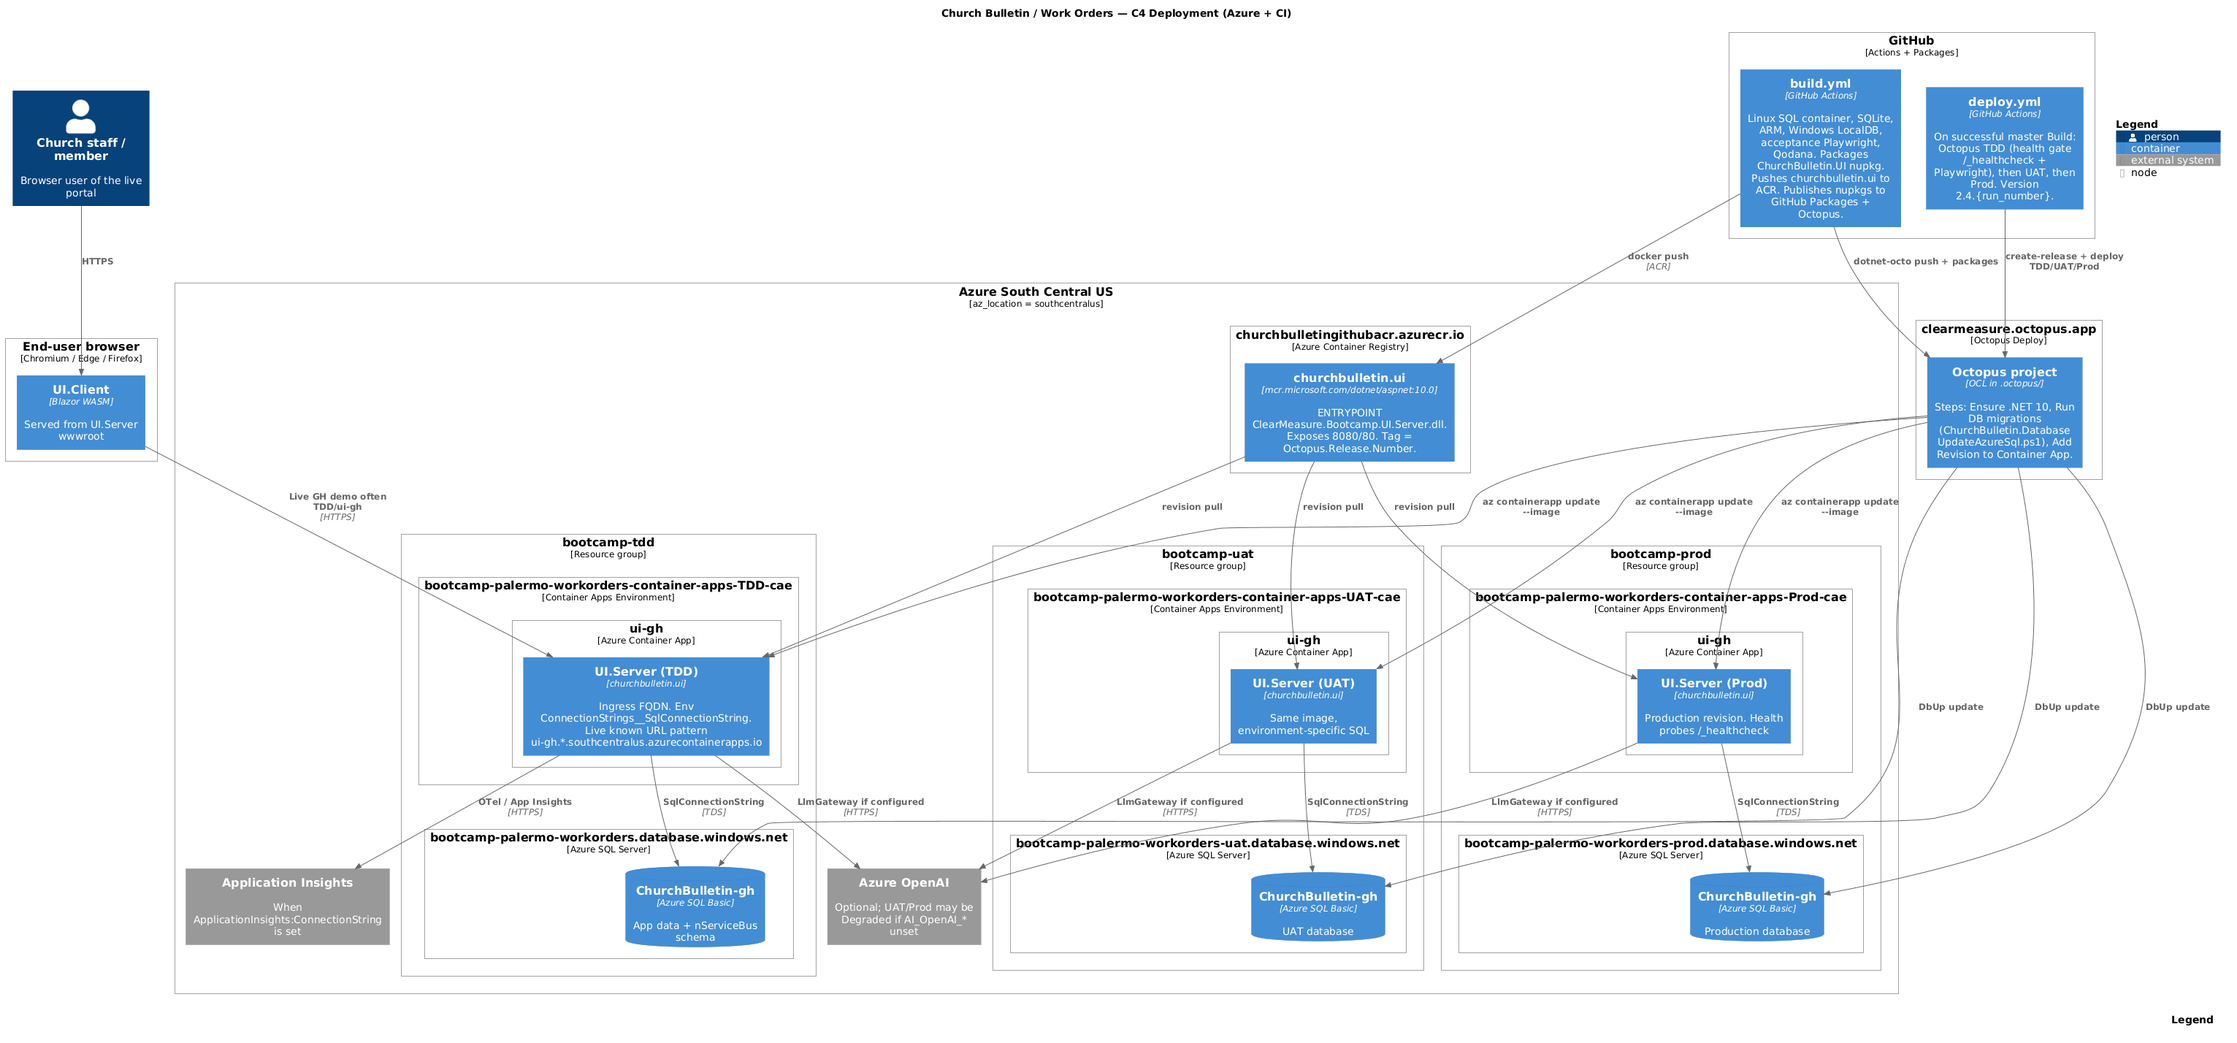
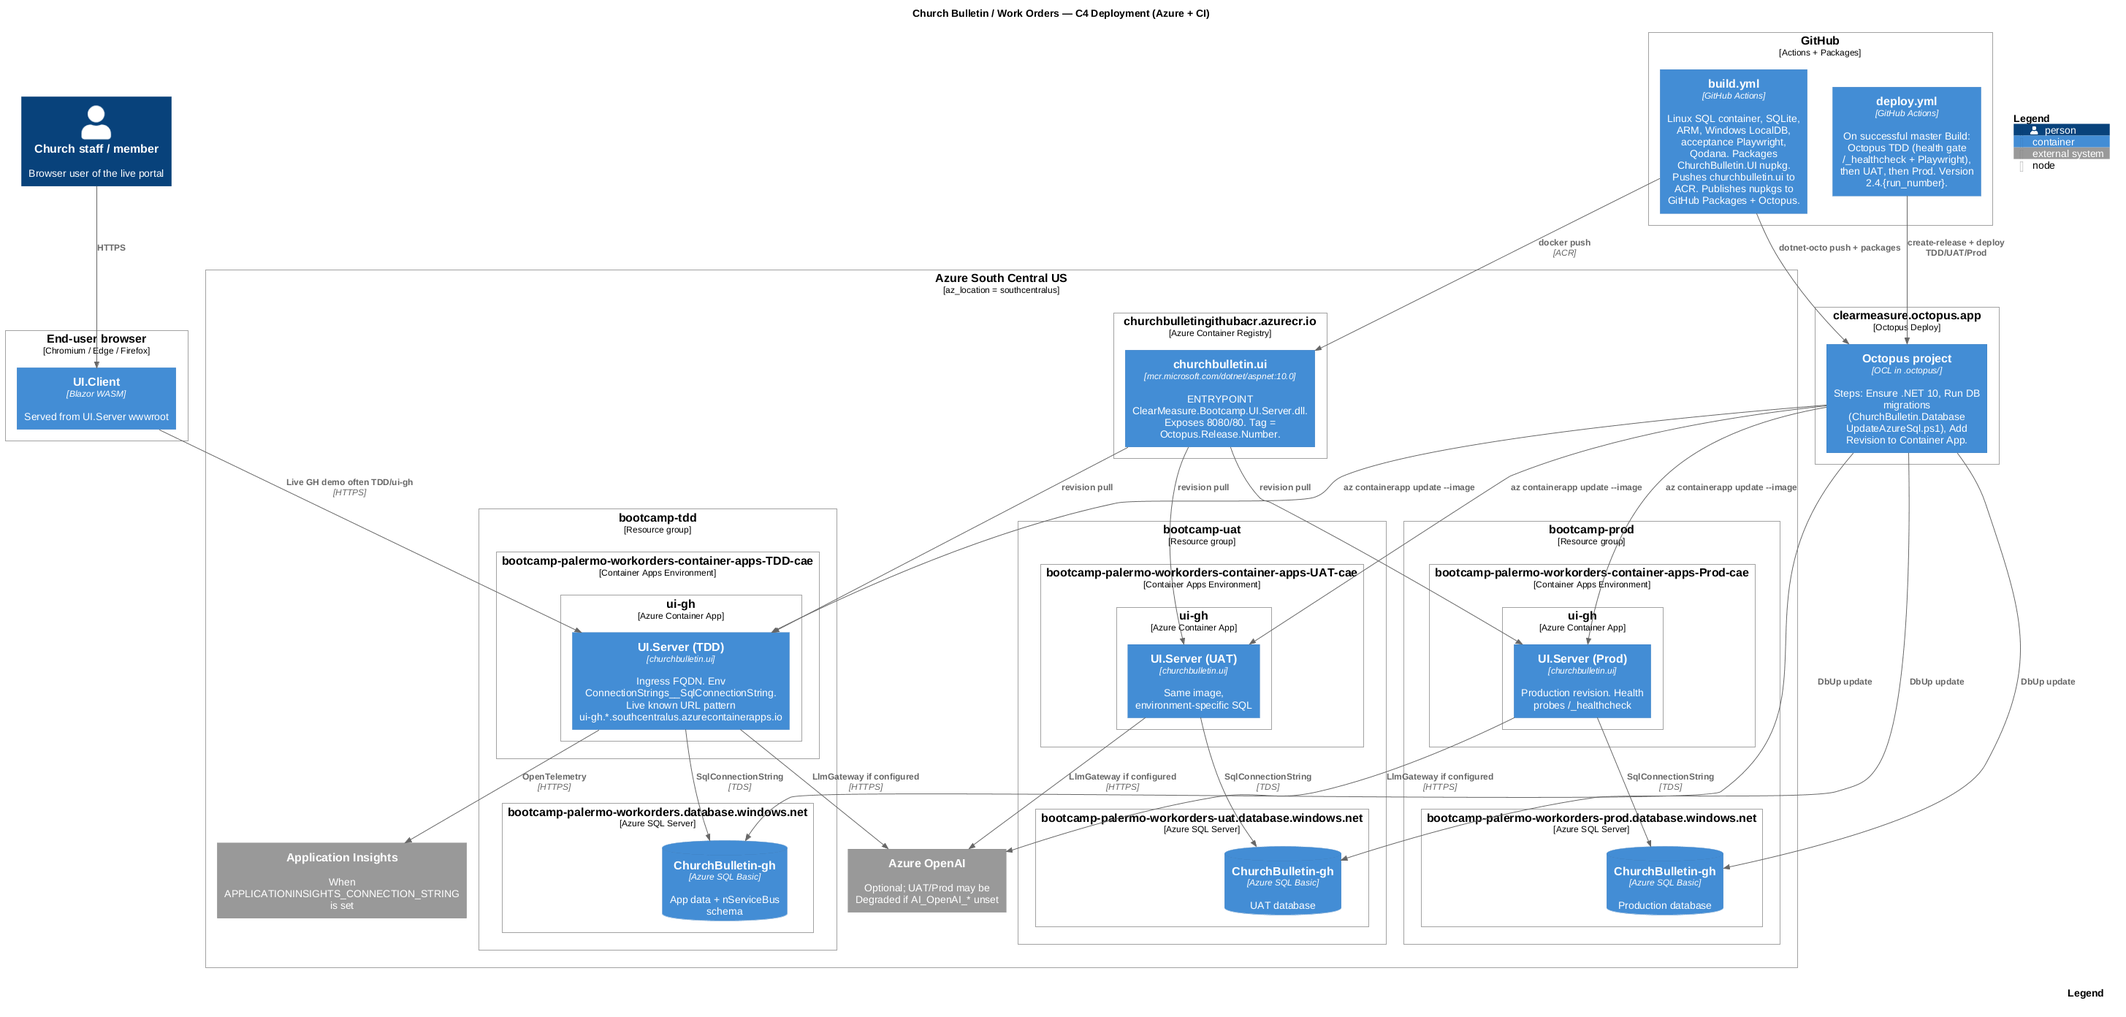
Telemetry to Application Insights through the Azure Monitor OpenTelemetry exporter; remove Application Insights leftovers (#12)
- ServiceDefaults: Azure.Monitor.OpenTelemetry.AspNetCore 1.6.0; UseAzureMonitor() when APPLICATIONINSIGHTS_CONNECTION_STRING is non-empty (traces, metrics, logs), UseOtlpExporter() when OTEL_EXPORTER_OTLP_ENDPOINT is set; both may run. OTEL_SERVICE_NAME / OTEL_RESOURCE_ATTRIBUTES are applied after the Azure resource detectors so the platform's service name wins.
- Dead Application Insights settings and instrumentation keys removed from launch settings, Worker and AppHost appsettings.Development.json and the AppHost; dummy zero-key variables removed from the ai-factory serve script and the 8338 video README.
- video/package.json, video/package-lock.json and video/src/Root.tsx restored to their state before 09d6b96 (an accidental edit importing a missing ./middleNameVideo).
- Docs and agent rules describe the Azure (Application Insights) and local (Aspire dashboard) telemetry paths; runtime-c4 re-rendered.
- Tests: exporter wiring by configuration; service name kept on App Service and Container Apps.

diff --git a/video/src/Root.tsx b/video/src/Root.tsx
@@ -3,7 +3,6 @@ import {Composition} from 'remotion';
 import {QodanaRemediationVideo, TOTAL_FRAMES} from './Video';
 import {RoomNumber900Video, ROOM_TOTAL_FRAMES} from './roomNumberVideo';
 import {InstructionsFieldVideo, INSTRUCTIONS_TOTAL_FRAMES} from './instructionsFieldVideo';
-import {MiddleNameVideo, MIDDLE_NAME_TOTAL_FRAMES, MIDDLE_NAME_DEFAULTS} from './middleNameVideo';
 import {FPS} from './theme';
 
 export const RemotionRoot: React.FC = () => (
@@ -31,15 +30,6 @@ export const RemotionRoot: React.FC = () => (
       fps={FPS}
       width={1920}
       height={1080}
-    />
-    <Composition
-      id="EmployeeMiddleName"
-      component={MiddleNameVideo}
-      durationInFrames={MIDDLE_NAME_TOTAL_FRAMES}
-      fps={FPS}
-      width={1920}
-      height={1080}
-      defaultProps={MIDDLE_NAME_DEFAULTS}
     />
   </>
 );

diff --git a/src/UnitTests/ServiceDefaults/OpenTelemetryResourceTests.cs b/src/UnitTests/ServiceDefaults/OpenTelemetryResourceTests.cs
@@ -1,3 +1,4 @@
+using Azure.Monitor.OpenTelemetry.AspNetCore;
 using ChurchBulletin.ServiceDefaults;
 using Microsoft.Extensions.DependencyInjection;
 using Microsoft.Extensions.Hosting;
@@ -10,6 +11,10 @@ namespace ClearMeasure.Bootcamp.UnitTests.ServiceDefaults;
 [TestFixture]
 public class OpenTelemetryResourceTests
 {
+    // Points ingestion and Live Metrics at a closed local port so no telemetry leaves the machine.
+    private static readonly string OfflineConnectionString =
+        $"InstrumentationKey={Guid.Empty};IngestionEndpoint=http://127.0.0.1:9/;LiveEndpoint=http://127.0.0.1:9/";
+
     [Test]
     public void AddServiceDefaults_WhenOtelServiceNameConfigured_ShouldUseItAsServiceName()
     {
@@ -37,6 +42,59 @@ public class OpenTelemetryResourceTests
         attributes.ShouldContain(a => a.Key == "deployment.environment" && (string)a.Value == "tdd");
     }
 
+    [TestCase("WEBSITE_SITE_NAME", "app-test-tdd-ui")]
+    [TestCase("CONTAINER_APP_NAME", "ca-test-tdd-ui")]
+    public void AddServiceDefaults_WhenAzureMonitorRunsOnAzurePlatform_ShouldKeepOtelServiceName(
+        string platformVariable, string platformAppName)
+    {
+        using var platform = EnvironmentVariableScope.Set(
+            (platformVariable, platformAppName),
+            ("CONTAINER_APP_REPLICA_NAME", "replica-1"),
+            ("APPLICATIONINSIGHTS_STATSBEAT_DISABLED", "true"),
+            ("APPLICATIONINSIGHTS_SDKSTATS_DISABLED", "true"));
+        var builder = Host.CreateApplicationBuilder();
+        builder.Configuration["APPLICATIONINSIGHTS_CONNECTION_STRING"] = OfflineConnectionString;
+        builder.Configuration["OTEL_SERVICE_NAME"] = "test-ui";
+        builder.AddServiceDefaults();
+        builder.Services.Configure<AzureMonitorOptions>(options =>
+        {
+            options.EnableLiveMetrics = false;
+            options.DisableOfflineStorage = true;
+        });
+        using var host = builder.Build();
+
+        var attributes = host.Services.GetRequiredService<TracerProvider>().GetResource().Attributes.ToList();
+
+        attributes.ShouldContain(a => a.Key == "cloud.provider" && (string)a.Value == "azure");
+        ServiceNameOf(attributes).ShouldBe("test-ui");
+    }
+
     private static string? ServiceNameOf(IEnumerable<KeyValuePair<string, object>> attributes) =>
         attributes.Single(a => a.Key == "service.name").Value as string;
+
+    private sealed class EnvironmentVariableScope : IDisposable
+    {
+        private readonly Dictionary<string, string?> _previous;
+
+        private EnvironmentVariableScope(Dictionary<string, string?> previous) => _previous = previous;
+
+        public static EnvironmentVariableScope Set(params (string Name, string Value)[] variables)
+        {
+            var previous = variables.ToDictionary(v => v.Name, v => Environment.GetEnvironmentVariable(v.Name));
+            foreach (var (name, value) in variables)
+            {
+                Environment.SetEnvironmentVariable(name, value);
+            }
+
+            return new EnvironmentVariableScope(previous);
+        }
+
+        public void Dispose()
+        {
+            foreach (var (name, value) in _previous)
+            {
+                Environment.SetEnvironmentVariable(name, value);
+            }
+        }
+    }
 }

diff --git a/src/UnitTests/ServiceDefaults/TelemetryExporterTests.cs b/src/UnitTests/ServiceDefaults/TelemetryExporterTests.cs
@@ -1,0 +1,73 @@
+using Azure.Monitor.OpenTelemetry.AspNetCore;
+using ChurchBulletin.ServiceDefaults;
+using Microsoft.Extensions.DependencyInjection;
+using Microsoft.Extensions.Hosting;
+using Microsoft.Extensions.Options;
+using Shouldly;
+
+namespace ClearMeasure.Bootcamp.UnitTests.ServiceDefaults;
+
+[TestFixture]
+public class TelemetryExporterTests
+{
+    private static readonly string TestConnectionString = $"InstrumentationKey={Guid.Empty}";
+
+    [Test]
+    public void AddServiceDefaults_WhenApplicationInsightsConnectionStringSet_ShouldWireAzureMonitorExporter()
+    {
+        var builder = Host.CreateApplicationBuilder();
+        builder.Configuration["APPLICATIONINSIGHTS_CONNECTION_STRING"] = TestConnectionString;
+        builder.Configuration["OTEL_EXPORTER_OTLP_ENDPOINT"] = null;
+
+        builder.AddServiceDefaults();
+
+        UsesAzureMonitor(builder.Services).ShouldBeTrue();
+        UsesOtlpExporter(builder.Services).ShouldBeFalse();
+    }
+
+    [TestCase(null)]
+    [TestCase("")]
+    [TestCase("  ")]
+    public void AddServiceDefaults_WhenApplicationInsightsConnectionStringMissing_ShouldNotWireAzureMonitorExporter(
+        string? connectionString)
+    {
+        var builder = Host.CreateApplicationBuilder();
+        builder.Configuration["APPLICATIONINSIGHTS_CONNECTION_STRING"] = connectionString;
+
+        builder.AddServiceDefaults();
+
+        UsesAzureMonitor(builder.Services).ShouldBeFalse();
+    }
+
+    [Test]
+    public void AddServiceDefaults_WhenOnlyLegacyApplicationInsightsSettingSet_ShouldNotWireAzureMonitorExporter()
+    {
+        var builder = Host.CreateApplicationBuilder();
+        builder.Configuration["APPLICATIONINSIGHTS_CONNECTION_STRING"] = null;
+        builder.Configuration["ApplicationInsights:ConnectionString"] = TestConnectionString;
+
+        builder.AddServiceDefaults();
+
+        UsesAzureMonitor(builder.Services).ShouldBeFalse();
+    }
+
+    [Test]
+    public void AddServiceDefaults_WhenOtlpEndpointAndConnectionStringSet_ShouldWireBothExporters()
+    {
+        var builder = Host.CreateApplicationBuilder();
+        builder.Configuration["OTEL_EXPORTER_OTLP_ENDPOINT"] = "http://localhost:4317";
+        builder.Configuration["APPLICATIONINSIGHTS_CONNECTION_STRING"] = TestConnectionString;
+
+        builder.AddServiceDefaults();
+
+        UsesAzureMonitor(builder.Services).ShouldBeTrue();
+        UsesOtlpExporter(builder.Services).ShouldBeTrue();
+    }
+
+    private static bool UsesAzureMonitor(IServiceCollection services) =>
+        services.Any(d => d.ServiceType == typeof(IConfigureOptions<AzureMonitorOptions>));
+
+    private static bool UsesOtlpExporter(IServiceCollection services) =>
+        services.Any(d => d.ServiceType.Assembly.GetName().Name == "OpenTelemetry.Exporter.OpenTelemetryProtocol"
+            || d.ImplementationType?.Assembly.GetName().Name == "OpenTelemetry.Exporter.OpenTelemetryProtocol");
+}

diff --git a/src/ChurchBulletin.ServiceDefaults/Extensions.cs b/src/ChurchBulletin.ServiceDefaults/Extensions.cs
@@ -4,8 +4,10 @@ using Microsoft.Extensions.DependencyInjection;
 using Microsoft.Extensions.Diagnostics.HealthChecks;
 using Microsoft.Extensions.Hosting;
 using Microsoft.Extensions.Logging;
+using Azure.Monitor.OpenTelemetry.AspNetCore;
 using OpenTelemetry;
 using OpenTelemetry.Metrics;
+using OpenTelemetry.Resources;
 using OpenTelemetry.Trace;
 using Serilog;
 
@@ -95,9 +97,11 @@ public static class Extensions
     }
 
     /// <summary>
-    /// Adds the OTLP exporter when the OTEL_EXPORTER_OTLP_ENDPOINT environment variable is set. It is the only
-    /// exporter: the service name and other resource attributes come from OTEL_SERVICE_NAME and
-    /// OTEL_RESOURCE_ATTRIBUTES, which the OpenTelemetry SDK reads by default.
+    /// Adds the exporters whose configuration is present; both may be active together.
+    /// APPLICATIONINSIGHTS_CONNECTION_STRING (set by the platform in Azure) turns on the Azure Monitor exporter,
+    /// which sends traces, metrics and logs to Application Insights. OTEL_EXPORTER_OTLP_ENDPOINT (set by the Aspire
+    /// AppHost locally) turns on the OTLP exporter. The service name and other resource attributes come from
+    /// OTEL_SERVICE_NAME and OTEL_RESOURCE_ATTRIBUTES.
     /// </summary>
     private static void AddOpenTelemetryExporters<TBuilder>(this TBuilder builder, OpenTelemetryBuilder otelBuilder) where TBuilder : IHostApplicationBuilder
     {
@@ -106,6 +110,18 @@ public static class Extensions
         if (useOtlpExporter)
         {
             otelBuilder.UseOtlpExporter();
+        }
+
+        var useAzureMonitorExporter = !string.IsNullOrWhiteSpace(builder.Configuration["APPLICATIONINSIGHTS_CONNECTION_STRING"]);
+
+        if (useAzureMonitorExporter)
+        {
+            otelBuilder.UseAzureMonitor();
+
+            // UseAzureMonitor adds the App Service, Container Apps and VM resource detectors after the SDK's own
+            // OTEL_RESOURCE_ATTRIBUTES / OTEL_SERVICE_NAME detectors, so the site or container app name would
+            // replace service.name. Applying the OTEL_* variables again, last, keeps the name the platform sets.
+            otelBuilder.ConfigureResource(resource => resource.AddEnvironmentVariableDetector());
         }
     }
 

diff --git a/src/ChurchBulletin.AppHost/AppHost.cs b/src/ChurchBulletin.AppHost/AppHost.cs
@@ -1,14 +1,11 @@
 var builder = DistributedApplication.CreateBuilder(args);
 
 var sql = builder.AddConnectionString("SqlConnectionString");
-var appInsights = builder.AddConnectionString("AppInsights");
 
 builder.AddProject<Projects.UI_Server>("ui-server")
-    .WithReference(sql)
-    .WithReference(appInsights);
+    .WithReference(sql);
 
 builder.AddProject<Projects.Worker>("worker")
-    .WithReference(sql)
-    .WithReference(appInsights);
+    .WithReference(sql);
 
 builder.Build().Run();

diff --git a/src/ChurchBulletin.ServiceDefaults/SerilogExtensions.cs b/src/ChurchBulletin.ServiceDefaults/SerilogExtensions.cs
@@ -21,7 +21,7 @@ public static class SerilogExtensions
     /// <summary>
     /// Configures Serilog as the primary logging pipeline with JSON console output and forwards
     /// events to other <see cref="Microsoft.Extensions.Logging.ILoggerProvider"/> registrations
-    /// (for example OpenTelemetry and Application Insights).
+    /// (for example the OpenTelemetry logging provider).
     /// </summary>
     public static void AddSerilogJsonConsole(this IHostApplicationBuilder builder)
     {

diff --git a/AGENTS.md b/AGENTS.md
@@ -29,7 +29,6 @@ The `launchSettings.json` contains a Windows-only LocalDB connection string that
 ```bash
 export ConnectionStrings__SqlConnectionString="server=localhost,1433;database=ChurchBulletin;User ID=sa;Password=churchbulletin-mssql#1A;TrustServerCertificate=true;"
 export ASPNETCORE_ENVIRONMENT=Development
-export APPLICATIONINSIGHTS_CONNECTION_STRING="InstrumentationKey=586d68ed-85bc-4092-ac8a-fabb7a583e93;IngestionEndpoint=https://centralus-2.in.applicationinsights.azure.com/;LiveEndpoint=https://centralus.livediagnostics.monitor.azure.com/;ApplicationId=5328e763-3c56-4eae-ad66-aa528a92e984"
 export AI_OpenAI_ApiKey=""
 export AI_OpenAI_Url=""
 export AI_OpenAI_Model=""
@@ -38,7 +37,7 @@ cd src/UI/Server && dotnet run --no-launch-profile --urls "https://localhost:717
 
 Key gotchas:
 - **Must use `--no-launch-profile`** to avoid the LocalDB connection string override from `launchSettings.json`.
-- **Must set `APPLICATIONINSIGHTS_CONNECTION_STRING`** or the Azure Monitor exporter will crash on startup.
+- **No telemetry setting is needed to run locally.** Telemetry is OpenTelemetry (`src/ChurchBulletin.ServiceDefaults/Extensions.cs`). In Azure the platform sets `APPLICATIONINSIGHTS_CONNECTION_STRING` and `OTEL_SERVICE_NAME`, and the Azure Monitor OpenTelemetry exporter sends traces, metrics and logs to Application Insights. Locally, running `src/ChurchBulletin.AppHost` sets `OTEL_EXPORTER_OTLP_ENDPOINT` and the OTLP exporter sends to the Aspire dashboard. Without either variable no exporter runs and the app starts normally. No connection string or instrumentation key belongs in the repository.
 - **Must set `AI_OpenAI_*` vars to empty strings** to prevent the app from trying to connect to Azure OpenAI (it degrades gracefully).
 - The SQL Server Docker container must already be running (created by `PrivateBuild.ps1` or manually via `docker run`). The container name is `churchbulletin-mssql` and the password is `churchbulletin-mssql#1A`.
 

diff --git a/CLAUDE.md b/CLAUDE.md
@@ -36,6 +36,8 @@ dotnet test src/AcceptanceTests --configuration Debug --filter "FullyQualifiedNa
 
 **Run locally:** `cd src/UI/Server && dotnet run` → `https://localhost:7174` (health: `/_healthcheck`)
 
+**Telemetry:** OpenTelemetry, wired in `src/ChurchBulletin.ServiceDefaults/Extensions.cs`. In Azure the platform sets `APPLICATIONINSIGHTS_CONNECTION_STRING` and `OTEL_SERVICE_NAME`, and the Azure Monitor OpenTelemetry exporter sends traces, metrics and logs to Application Insights. Locally, running `src/ChurchBulletin.AppHost` sets `OTEL_EXPORTER_OTLP_ENDPOINT` and the OTLP exporter sends to the Aspire dashboard. No connection string or instrumentation key in the repository.
+
 ## Onion Architecture (Strict)
 
 Dependency flow is inward only. Violations will break the build.
@@ -133,7 +135,7 @@ DbUp scripts in `src/Database/scripts/Update/`, numbered sequentially (`###_Desc
 
 **AppHost** — Aspire.AppHost.Sdk 13.1.2
 
-**ServiceDefaults** — OpenTelemetry.Exporter.OpenTelemetryProtocol 1.12.0, OpenTelemetry.Extensions.Hosting 1.12.0, Microsoft.Extensions.Http.Resilience 9.9.0, Microsoft.Extensions.ServiceDiscovery 9.5.0
+**ServiceDefaults** — Azure.Monitor.OpenTelemetry.AspNetCore 1.6.0, OpenTelemetry.Exporter.OpenTelemetryProtocol 1.12.0, OpenTelemetry.Extensions.Hosting 1.12.0, Microsoft.Extensions.Http.Resilience 9.9.0, Microsoft.Extensions.ServiceDiscovery 9.5.0
 
 **UnitTests** — NUnit 4.3.2, NUnit3TestAdapter 5.0.0, Shouldly 4.3.0, bunit 1.40.0, AutoBogus.Conventions 2.13.1, MediatR 12.4.1, coverlet.msbuild 6.0.4, Toolbelt.Blazor.SpeechRecognition 1.0.0, Toolbelt.Blazor.SpeechSynthesis 11.0.0
 

diff --git a/.github/copilot-instructions.md b/.github/copilot-instructions.md
@@ -42,6 +42,8 @@ This file provides standards for GitHub Copilot to follow when generating code f
 - Small focused methods, nullable reference types
 - XML docs on public APIs
 
+**Telemetry:** OpenTelemetry, wired in `src/ChurchBulletin.ServiceDefaults/Extensions.cs`. In Azure the platform sets `APPLICATIONINSIGHTS_CONNECTION_STRING` and `OTEL_SERVICE_NAME`, and the Azure Monitor OpenTelemetry exporter sends traces, metrics and logs to Application Insights. Locally, running `src/ChurchBulletin.AppHost` sets `OTEL_EXPORTER_OTLP_ENDPOINT` and the OTLP exporter sends to the Aspire dashboard. No connection string or instrumentation key in the repository.
+
 ---
 
 ## Project Overview
@@ -156,7 +158,7 @@ All branches must be created inside a folder matching the username of the accoun
 | McpServer | ModelContextProtocol 1.0.0, Lamar.Microsoft.DependencyInjection 15.0.1, MediatR 12.4.1 |
 | Worker | ClearMeasureLabs.HostedEndpoint.SqlServerTransport 1.0.30 |
 | AppHost | Aspire.AppHost.Sdk 13.1.2 |
-| ServiceDefaults | OpenTelemetry 1.12.0, Microsoft.Extensions.ServiceDiscovery 9.5.0 |
+| ServiceDefaults | Azure.Monitor.OpenTelemetry.AspNetCore 1.6.0, OpenTelemetry 1.12.0, Microsoft.Extensions.ServiceDiscovery 9.5.0 |
 | UnitTests | NUnit 4.3.2, Shouldly 4.3.0, bunit 1.40.0, AutoBogus.Conventions 2.13.1 |
 | IntegrationTests | NUnit 4.3.2, Shouldly 4.3.0, Microsoft.EntityFrameworkCore 10.0.0 |
 | AcceptanceTests | NUnit 4.3.2, microsoft.playwright.nunit 1.54.0, Azure.AI.OpenAI 2.1.0, ModelContextProtocol 1.0.0 |

diff --git a/README.md b/README.md
@@ -101,8 +101,6 @@ The repository supports three common local development workflows. Pick the one t
      ```bash
      export ConnectionStrings__SqlConnectionString="server=localhost,1433;database=ChurchBulletin;User ID=sa;Password=churchbulletin-mssql#1A;TrustServerCertificate=true;"
      export ASPNETCORE_ENVIRONMENT=Development
-     # Must set APPLICATIONINSIGHTS_CONNECTION_STRING or set to an empty string to avoid the Azure Monitor exporter crashing:
-     export APPLICATIONINSIGHTS_CONNECTION_STRING=""
      # Prevent the app from attempting to contact Azure OpenAI (leave empty if not used)
      export AI_OpenAI_ApiKey=""
      export AI_OpenAI_Url=""
@@ -111,6 +109,8 @@ The repository supports three common local development workflows. Pick the one t
      dotnet run --no-launch-profile --urls "https://localhost:7174;http://localhost:5174"
      ```
   Important: use `--no-launch-profile` on Linux/macOS to avoid the Windows LocalDB connection string from launchSettings.json overriding your env vars.
+
+  Telemetry is OpenTelemetry and needs no setting to run locally. In Azure the platform sets `APPLICATIONINSIGHTS_CONNECTION_STRING` and `OTEL_SERVICE_NAME`, and the Azure Monitor OpenTelemetry exporter sends traces, metrics and logs to Application Insights. Locally, running `src/ChurchBulletin.AppHost` sets `OTEL_EXPORTER_OTLP_ENDPOINT` and the OTLP exporter sends to the Aspire dashboard. Without either variable no exporter runs.
 
 - SQLite fallback (no Docker)
 

diff --git a/.claude/skills/otel-observability-mindset/SKILL.md b/.claude/skills/otel-observability-mindset/SKILL.md
@@ -44,8 +44,11 @@ registering anything new in `ServiceDefaults`.
   true`. Don't add a second logging pipeline; use `ILogger` + `LogContext`
   scopes and let Serilog fan it out.
 - **Exporters**: OTLP and Azure Monitor are both wired and enabled purely by
-  config presence (`OTEL_EXPORTER_OTLP_ENDPOINT`,
-  `ApplicationInsights:ConnectionString`) — either, both, or neither. In
+  config presence — either, both, or neither. `APPLICATIONINSIGHTS_CONNECTION_STRING`
+  (set by the platform in Azure, together with `OTEL_SERVICE_NAME`) turns on the
+  Azure Monitor OpenTelemetry exporter, which sends traces, metrics and logs to
+  Application Insights; `OTEL_EXPORTER_OTLP_ENDPOINT` (set by the Aspire AppHost
+  locally) turns on the OTLP exporter for the Aspire dashboard. In
   Development, `LocalTelemetryFileWriter` also runs (alongside any configured
   exporters, not just as a fallback) so telemetry is always visible locally.
   New code never needs to touch exporter selection.

diff --git a/video/8338-demo-video/README.md b/video/8338-demo-video/README.md
@@ -51,7 +51,6 @@ node scripts/generate-narration.cjs   # -> public/audio/*.mp3 via Microsoft Edge
    ```powershell
    cd src/UI/Server
    $env:ASPNETCORE_ENVIRONMENT = "Development"
-   $env:APPLICATIONINSIGHTS_CONNECTION_STRING = "InstrumentationKey=00000000-0000-0000-0000-000000000000"
    $env:ApiKeyAuthentication__Enabled = "false"
    $env:ConnectionStrings__SqlConnectionString = 'server=(LocalDb)\MSSQLLocalDB;database=ChurchBulletinVideo;Integrated Security=true;TrustServerCertificate=true;'
    dotnet run --no-build --configuration Release --no-launch-profile --urls=https://localhost:7175
